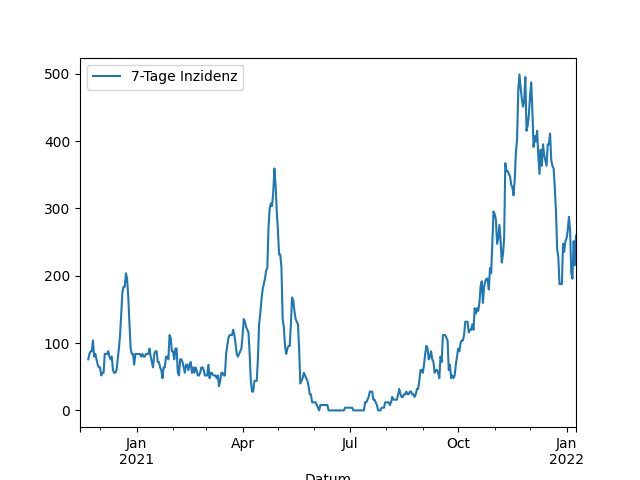
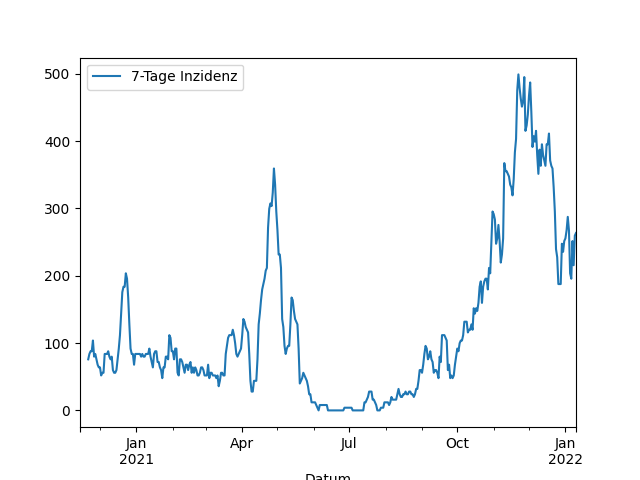
Update images

diff --git a/_includes/aktuelle_inzidenz.md b/_includes/aktuelle_inzidenz.md
@@ -1,1 +1,1 @@
-259,5
+263,5
